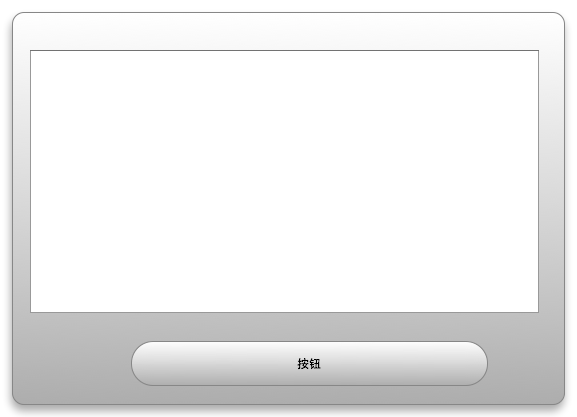
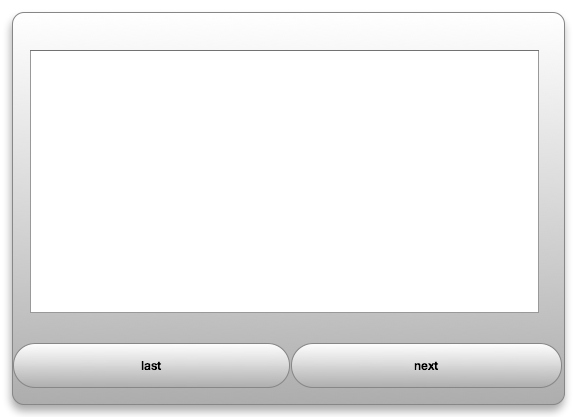
add button

Changed region(s): [[0.0, 0.8106, 0.9983, 0.9353]]

diff --git a/main.js b/main.js
@@ -33,8 +33,47 @@ var dic=[
   "buffoonery:幽默滑稽",
   "penetrate:渗透",
   "perpetrate:做坏事",
-  "perpetuate:保持，长久"
-  
+  "perpetuate:保持，长久",
+  "nostalgia:回忆",
+  "reminiscence:回忆",
+  "oblivion:遗忘",
+  "prospect:前景",
+  "retrospect:回顾",
+  "gratitude:感谢",
+  "ingratitude:忘恩负义",
+  "gratify:是满足高兴",
+  "gratuity:赠物",
+  "gratis:免费得",
+  "gratuitous:无缘无故",
+  "ingrained:根深蒂固",
+  "grate:磨碎，难受",
+  "axiomatic:明显",
+  "self-evident:明显",
+  "enervate:耗干",
+  "drain:人才流失",
+  "plethora:过量",
+  "torrid:酷热",
+  "turbid:浑浊的",
+  "turbulent:浮夸",
+  "turgid:浮夸的",
+  "circumspect:限制",
+  "circumscribe:限制",
+  "profuse:大量",
+  "defuse:缓和",
+  "egalitarian:平等主义",
+  "ephemeral:朝生暮死",
+  "iconoclastic:偶像破坏者",
+  "mercurial:雄辩机智的",
+  "upheavals:举动，大变动",
+  "transcends:超出",
+  "proposition:论点",
+  "coherent:调理清楚",
+  "bearing:举止，方位",
+  "embody:体现",
+  "topple:使塌陷",
+  "indignation:愤怒",
+  "derision:嘲弄",
+  "relegate:使降级"
   
   
 ]
@@ -158,10 +197,28 @@ function myClickHandler2(event)
     var textAreaToChange = document.getElementById("textarea");	// 替换为文本区的 ID
     
     
-    textAreaToChange.value=dic[i].split(":")[0]+'\n'+'\n'+dic[i].split(":")[1];
+    
     if(i<length-1)
     {i=i+1;}
     else{
     i=0
     }
+    textAreaToChange.value=dic[i].split(":")[0]+'\n'+'\n'+dic[i].split(":")[1];
+}
+
+
+function myClickHandler(event)
+{
+    // 将代码插入这里
+     var textAreaToChange = document.getElementById("textarea");	// 替换为文本区的 ID
+    
+    
+    
+    if(i!=0)
+    {i=i-1;}
+    else{
+    i=length-1;
+    }
+    textAreaToChange.value=dic[i].split(":")[0]+'\n'+'\n'+dic[i].split(":")[1];
+    
 }

diff --git a/main.html b/main.html
@@ -16,6 +16,7 @@
         <div class="apple-no-children" id="info" apple-part="com.apple.Dashcode.part.infobutton" apple-default-image-visibility="hidden"></div>
         <textarea id="textarea" apple-part="com.apple.Dashcode.part.textarea"></textarea>
         <div id="button" apple-part="com.apple.Dashcode.part.lozengetextbutton" class="apple-no-children" apple-style="image-theme: 1; image-shape: 1; image-button-type: 0; image-opacity: 1.00; image-top-color: 1,1,1,1; image-bottom-color: 0.6154,0.6154,0.6154,1; image-radius: 22,22,22,22; image-border: 1; image-border-color: 0.5294,0.5294,0.5294,1; image-border-width: 1; shine-strength: 0.90; shine-alpha-level: 0.67; shine-height: 0.50; glass-arc-height: 0.06; shadow-include-shadow: 0;"></div>
+        <div id="button1" apple-part="com.apple.Dashcode.part.lozengetextbutton" class="apple-no-children" apple-style="image-theme: 1; image-shape: 1; image-button-type: 0; image-opacity: 1.00; image-top-color: 1,1,1,1; image-bottom-color: 0.6154,0.6154,0.6154,1; image-radius: 25,25,25,25; image-border: 1; image-border-color: 0.5294,0.5294,0.5294,1; image-border-width: 1; shine-strength: 0.90; shine-alpha-level: 0.67; shine-height: 0.50; glass-arc-height: 0.06; shadow-include-shadow: 0;"></div>
     </div>
     <div id="back">
         <img id="backImage" src="Parts/Images/back.png" alt="" apple-part="com.apple.Dashcode.part.backimage" apple-style="image-radius: 12,12,12,12;">

diff --git a/main.css b/main.css
@@ -57,16 +57,16 @@ body {
     font-family: HelveticaNeue-Bold;
     font-size: 12px;
     text-align: center;
-    width: 357px;
+    width: 271px;
     cursor: default;
     -khtml-user-select: none;
     height: auto;
     position: absolute;
-    left: 131px;
-    top: 341px;
+    left: 291px;
+    top: 343px;
     right: auto;
     margin-top: 0px;
-    bottom: 31px;
+    bottom: 29px;
 }
 
 #textarea1 {
@@ -92,4 +92,21 @@ body {
     right: auto;
     bottom: auto;
     margin-top: 0px;
+}
+
+#button1 {
+    font-family: HelveticaNeue-Bold;
+    font-size: 12px;
+    text-align: center;
+    width: 277px;
+    cursor: default;
+    -khtml-user-select: none;
+    -khtml-user-select: none;
+    height: auto;
+    position: absolute;
+    left: 13px;
+    top: 343px;
+    right: auto;
+    margin-top: 0px;
+    bottom: 29px;
 }

diff --git a/Parts/setup.js b/Parts/setup.js
@@ -5,9 +5,11 @@
  code generator otherwise the changes will be lost.
  */
 var dashcodePartSpecs = {
-    "button": { "creationFunction": "CreateButton", "leftImageWidth": 23, "onclick": "myClickHandler2", "rightImageWidth": 23, "text": "按钮" },
+    "button": { "creationFunction": "CreateButton", "leftImageWidth": 23, "onclick": "myClickHandler2", "rightImageWidth": 23, "text": "next" },
+    "button1": { "creationFunction": "CreateButton", "leftImageWidth": 23, "onclick": "myClickHandler", "rightImageWidth": 23, "text": "last" },
     "done": { "creationFunction": "CreateGlassButton", "onclick": "showFront", "text": "完成" },
     "info": { "backgroundStyle": "black", "creationFunction": "CreateInfoButton", "foregroundStyle": "white", "frontID": "front", "onclick": "showBack" }
 };
+
 
 
